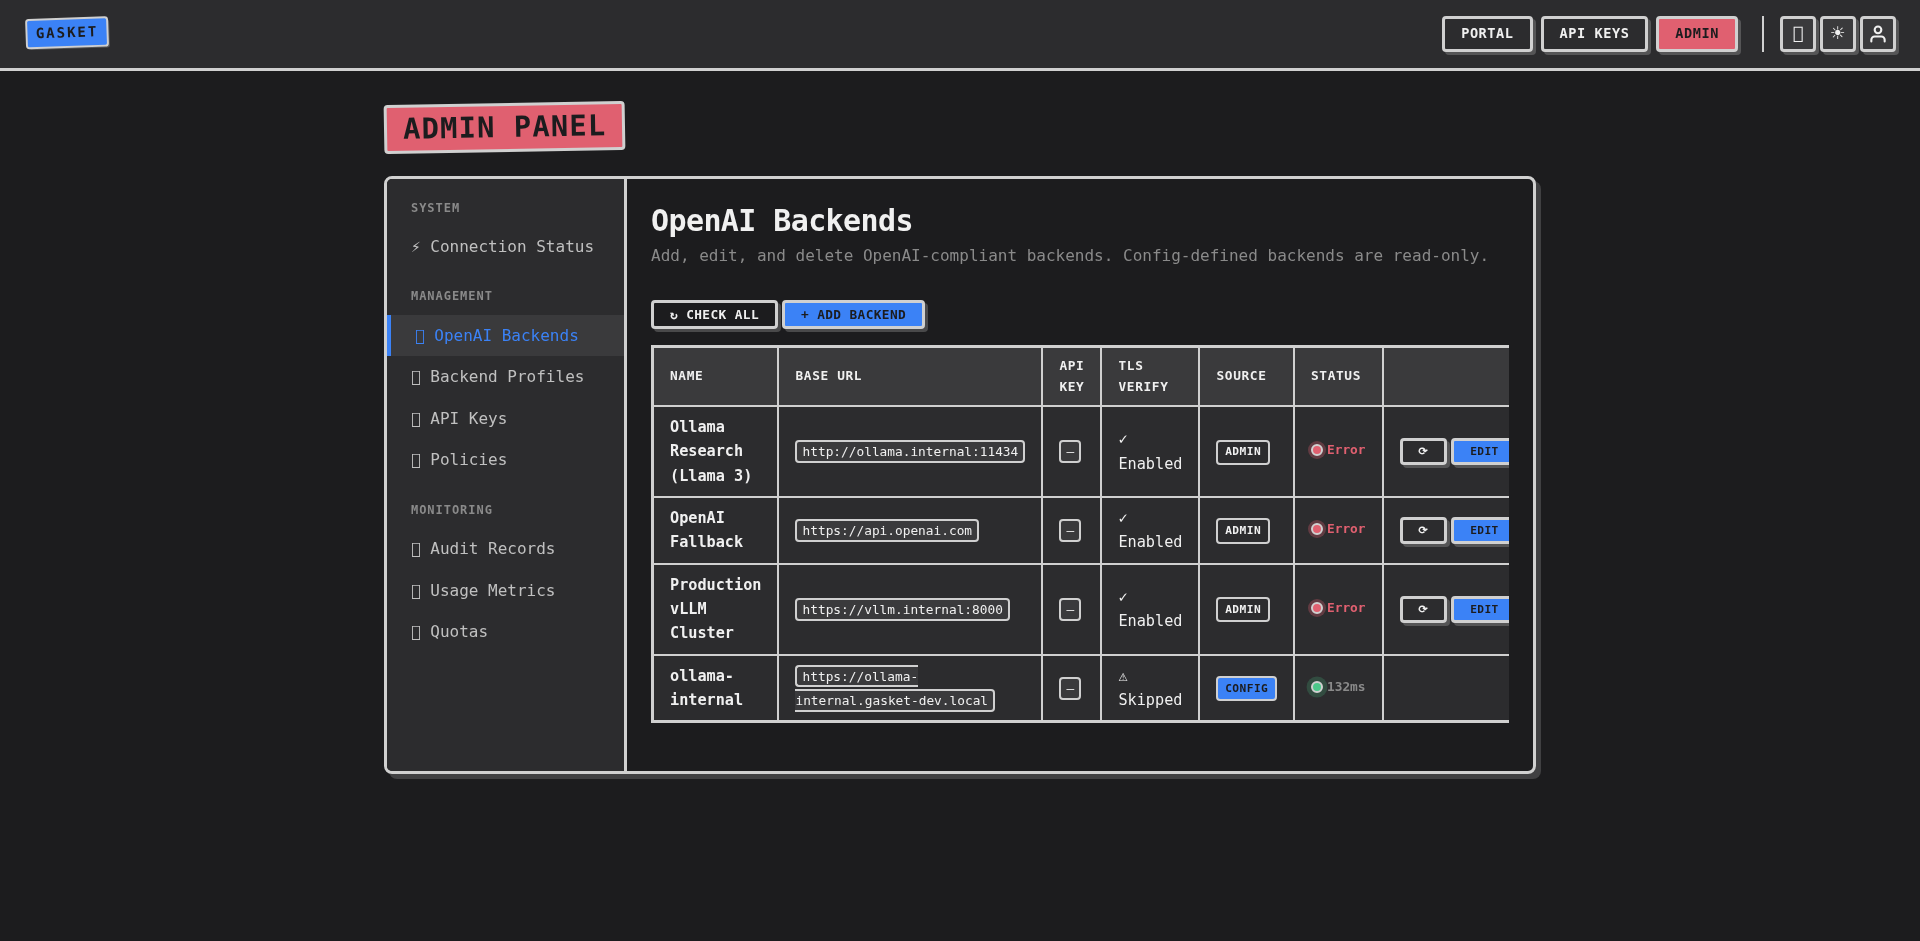
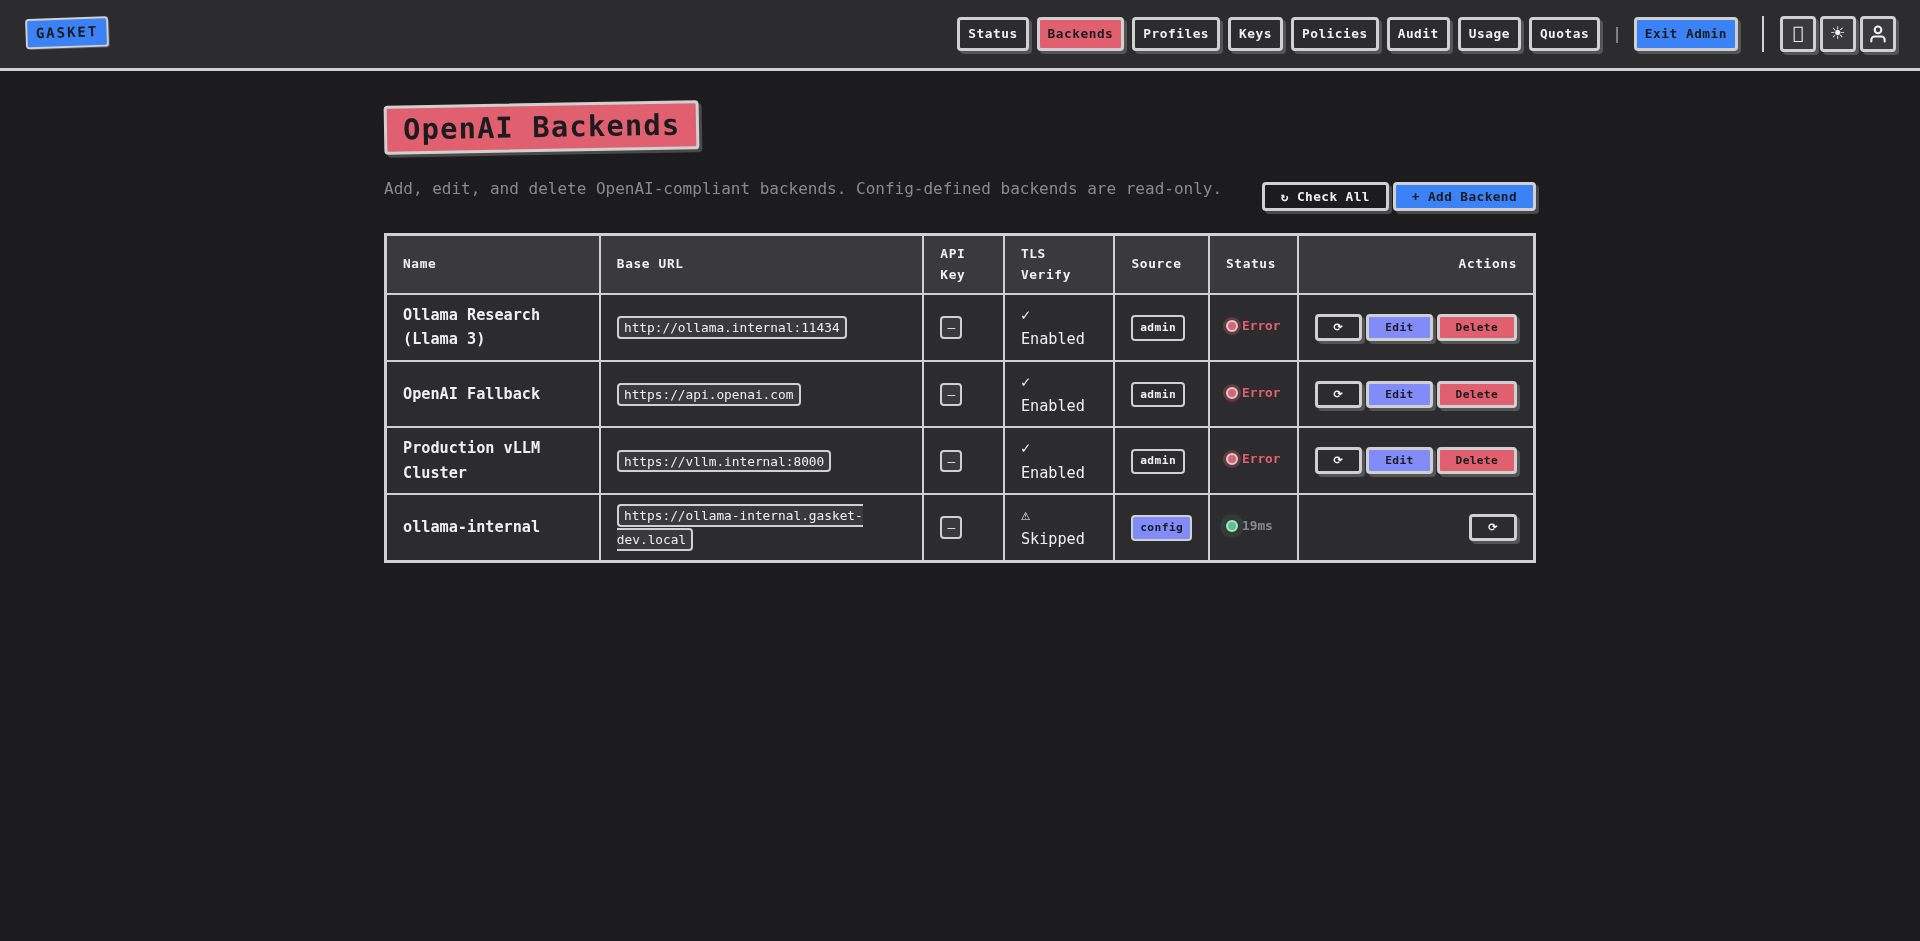
style: refine neo-brutalist ui aesthetics and refresh demo documentation

Changed region(s): [[0.1875, 0.0925, 0.8125, 0.8321], [0.5, 0.0, 0.9062, 0.0616], [0.3125, 0.678, 0.3438, 0.7088]]

diff --git a/docs/demo.md b/docs/demo.md
@@ -11,10 +11,20 @@ The dashboard provides a quick overview of connection health and usage metrics (
 
 ![Portal Dashboard](assets/demo/portal_dashboard.png)
 
+### Backend Profiles
+Users can view the backend profiles they have been granted access to via their group memberships.
+
+![Backend Profiles](assets/demo/portal_profiles.png)
+
 ### API Keys
 Users can generate and revoke their own API keys, scoping them to specific backend profiles they have been granted access to.
 
 ![API Keys](assets/demo/portal_keys.png)
+
+### Creating an API Key
+A modal interface allows users to name their key, select a backend profile, and set an expiry date.
+
+![Create API Key Modal](assets/demo/portal_keys_modal_add.png)
 
 ---
 
@@ -32,6 +42,11 @@ Define the upstream inference endpoints (e.g. internal vLLM clusters or external
 
 ![Admin Backends](assets/demo/admin_backends.png)
 
+### Adding a Backend
+Admins can easily add new inference endpoints via a comprehensive modal form.
+
+![Add Backend Modal](assets/demo/admin_backends_modal_add.png)
+
 ### Policies
 Create and version terms-of-use policies that users must accept before using specific backend profiles.
 
@@ -42,7 +57,29 @@ Group backends together, assign mandatory policies, and configure audit logging 
 
 ![Admin Profiles](assets/demo/admin_profiles.png)
 
+### Creating a Profile
+The profile creation modal supports advanced settings like load balancing algorithms and quota enforcement.
+
+![Create Profile Modal](assets/demo/admin_profiles_modal_add.png)
+
 ### API Key Management
 View, revoke, or restore any API key across the entire system.
 
 ![Admin Keys](assets/demo/admin_keys.png)
+
+---
+
+## UI Component Demo
+
+The Gasket Gateway uses a custom-built, modern neo-brutalist design system.
+
+### Core Typography and Buttons
+Showcasing the updated modern monospace fonts and primary interaction components.
+
+![UI Demo Top](assets/demo/ui_demo_top.png)
+
+### Cards and Data Tables
+Demonstrating interactive cards, progress bars, and complex sorting tables.
+
+![UI Demo Middle](assets/demo/ui_demo_middle.png)
+
